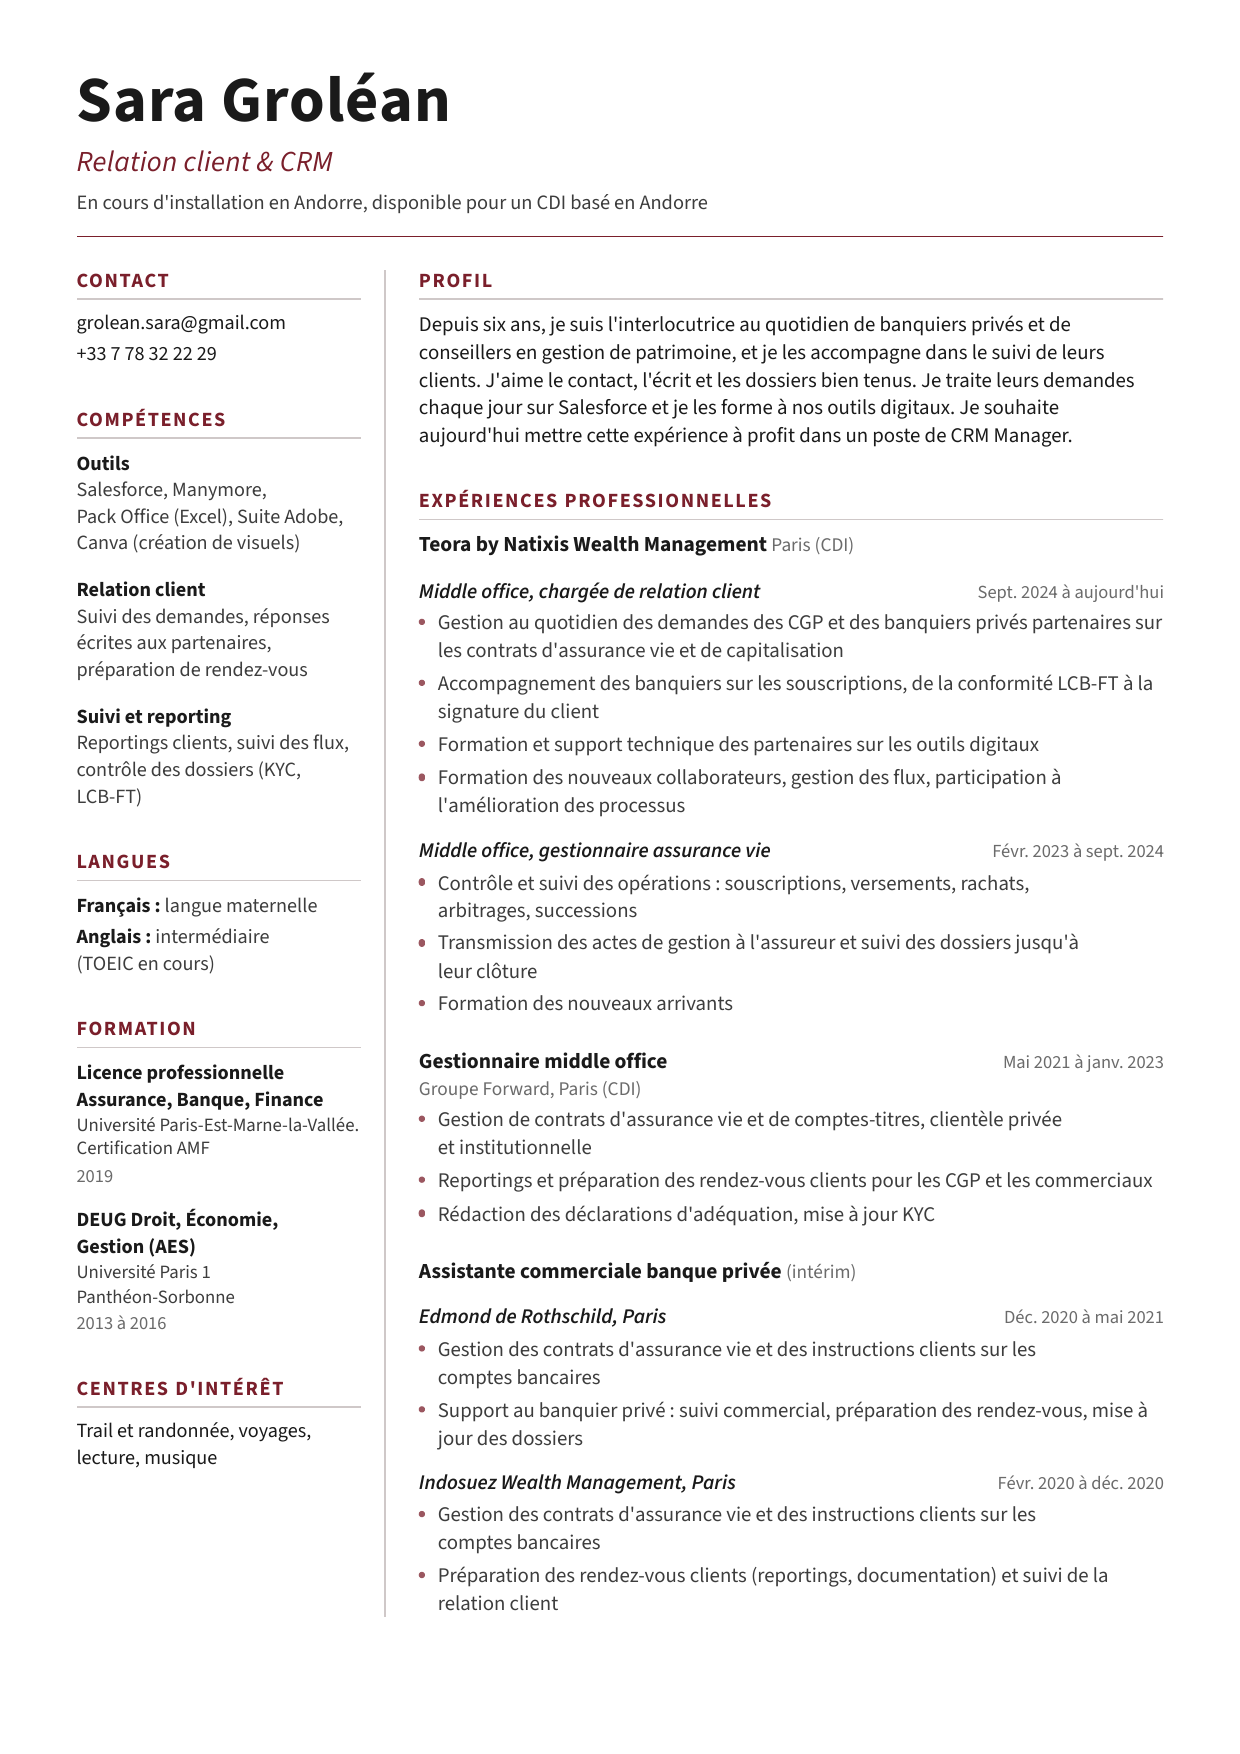
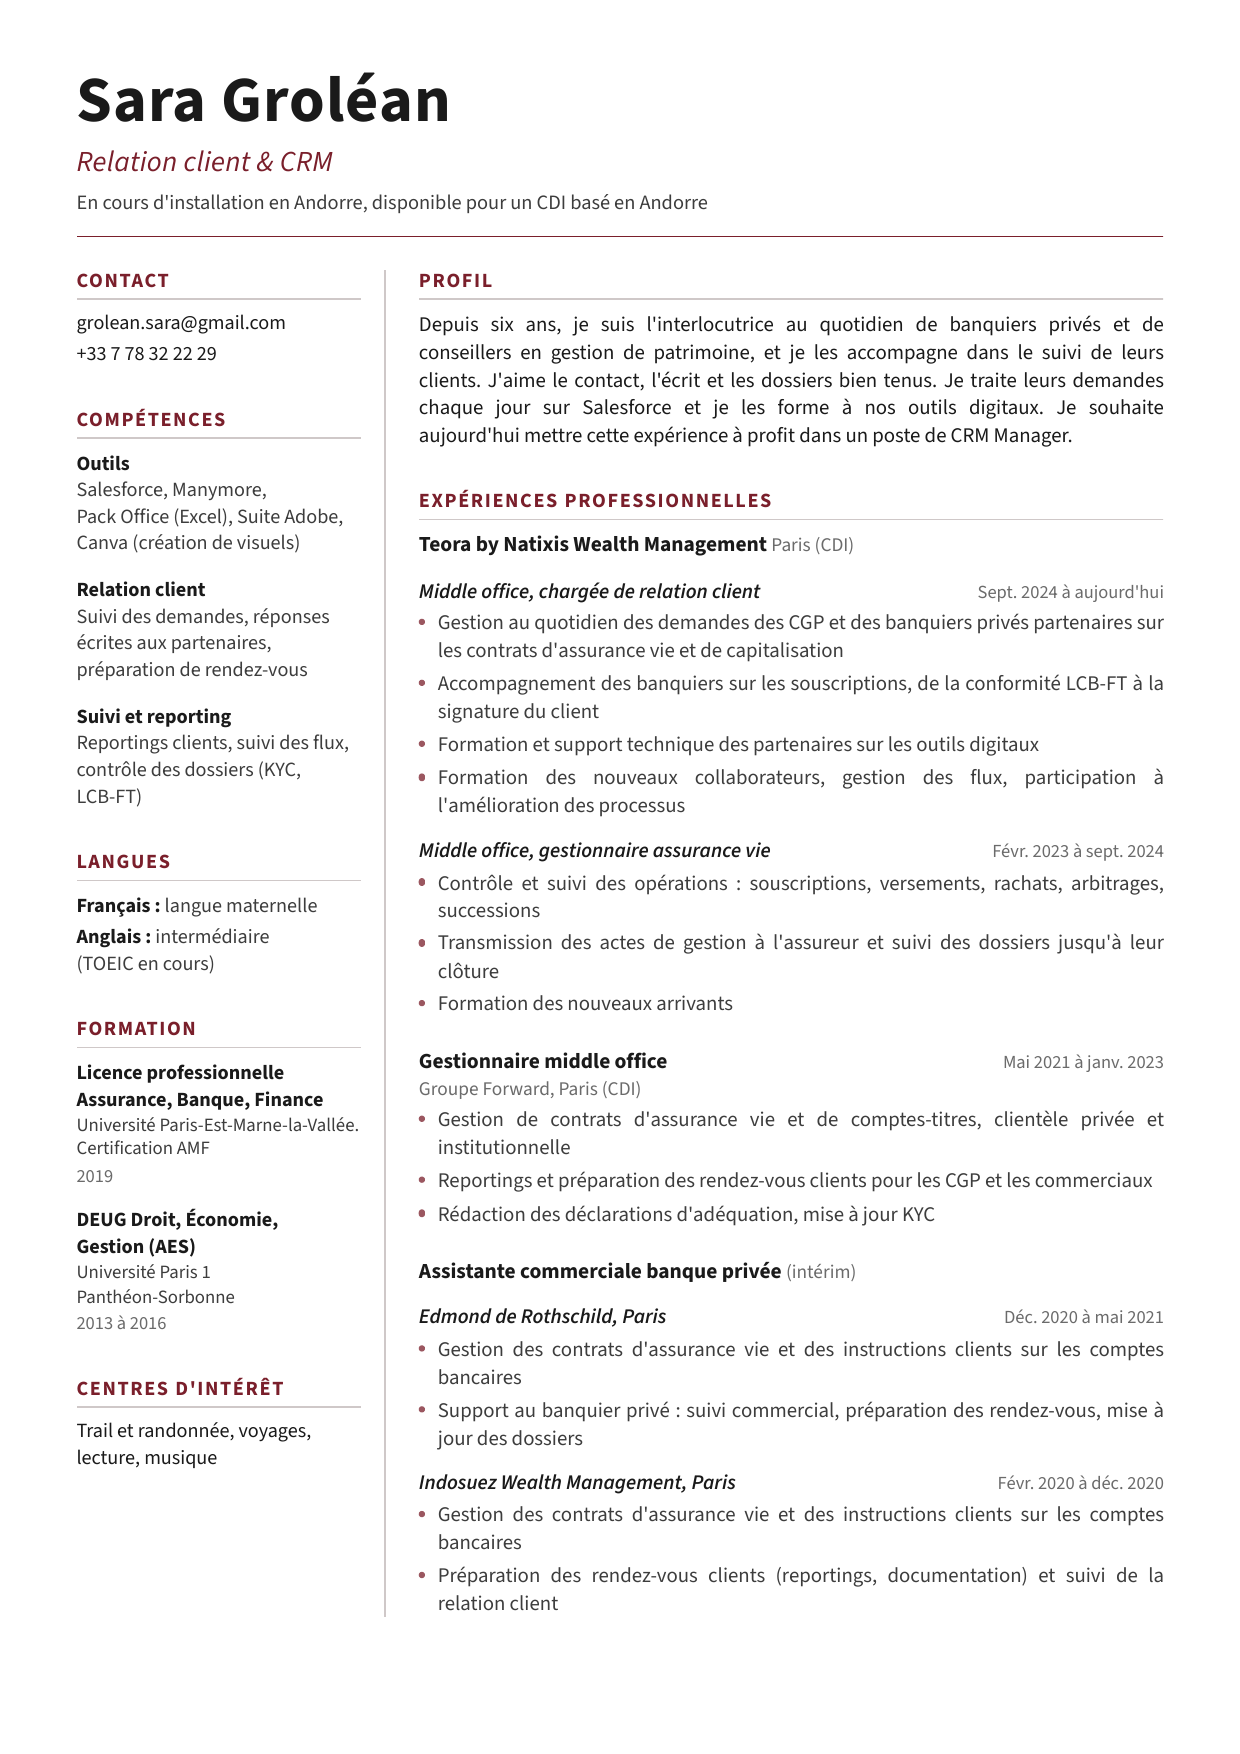
CV : texte justifié dans la colonne principale
Claude-Session: https://claude.ai/code/session_01UmD8YRu8FryYkLm5UGviac

diff --git a/cv.html b/cv.html
@@ -133,7 +133,9 @@
   .edu .date { display: block; margin-top: 0.4mm; }
 
   /* ---------------- Colonne principale ---------------- */
-  .profile p { color: var(--ink); text-align: left; }
+  /* texte justifié dans la colonne principale (sans césure, pour les ATS) */
+  main p, main li { text-align: justify; text-align-last: left; text-wrap: wrap; }
+  .profile p { color: var(--ink); }
 
   .job + .job { margin-top: var(--gap-item); }
   .company {

diff --git a/cv_garamond.html b/cv_garamond.html
@@ -133,7 +133,9 @@
   .edu .date { display: block; margin-top: 0.4mm; }
 
   /* ---------------- Colonne principale ---------------- */
-  .profile p { color: var(--ink); text-align: left; }
+  /* texte justifié dans la colonne principale (sans césure, pour les ATS) */
+  main p, main li { text-align: justify; text-align-last: left; text-wrap: wrap; }
+  .profile p { color: var(--ink); }
 
   .job + .job { margin-top: var(--gap-item); }
   .company {
